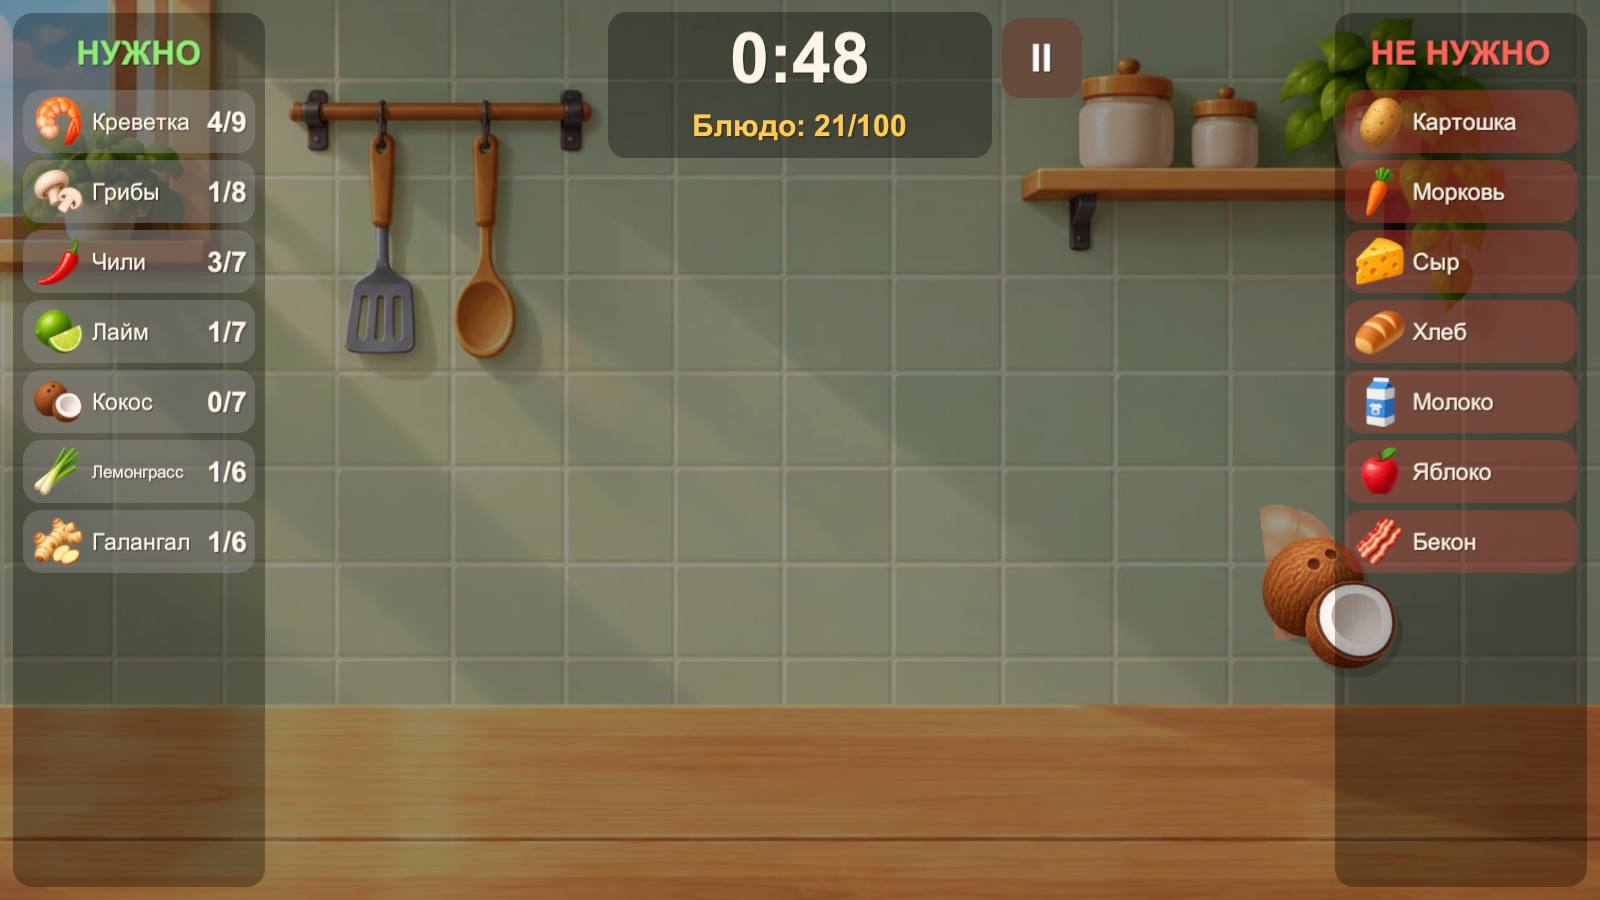
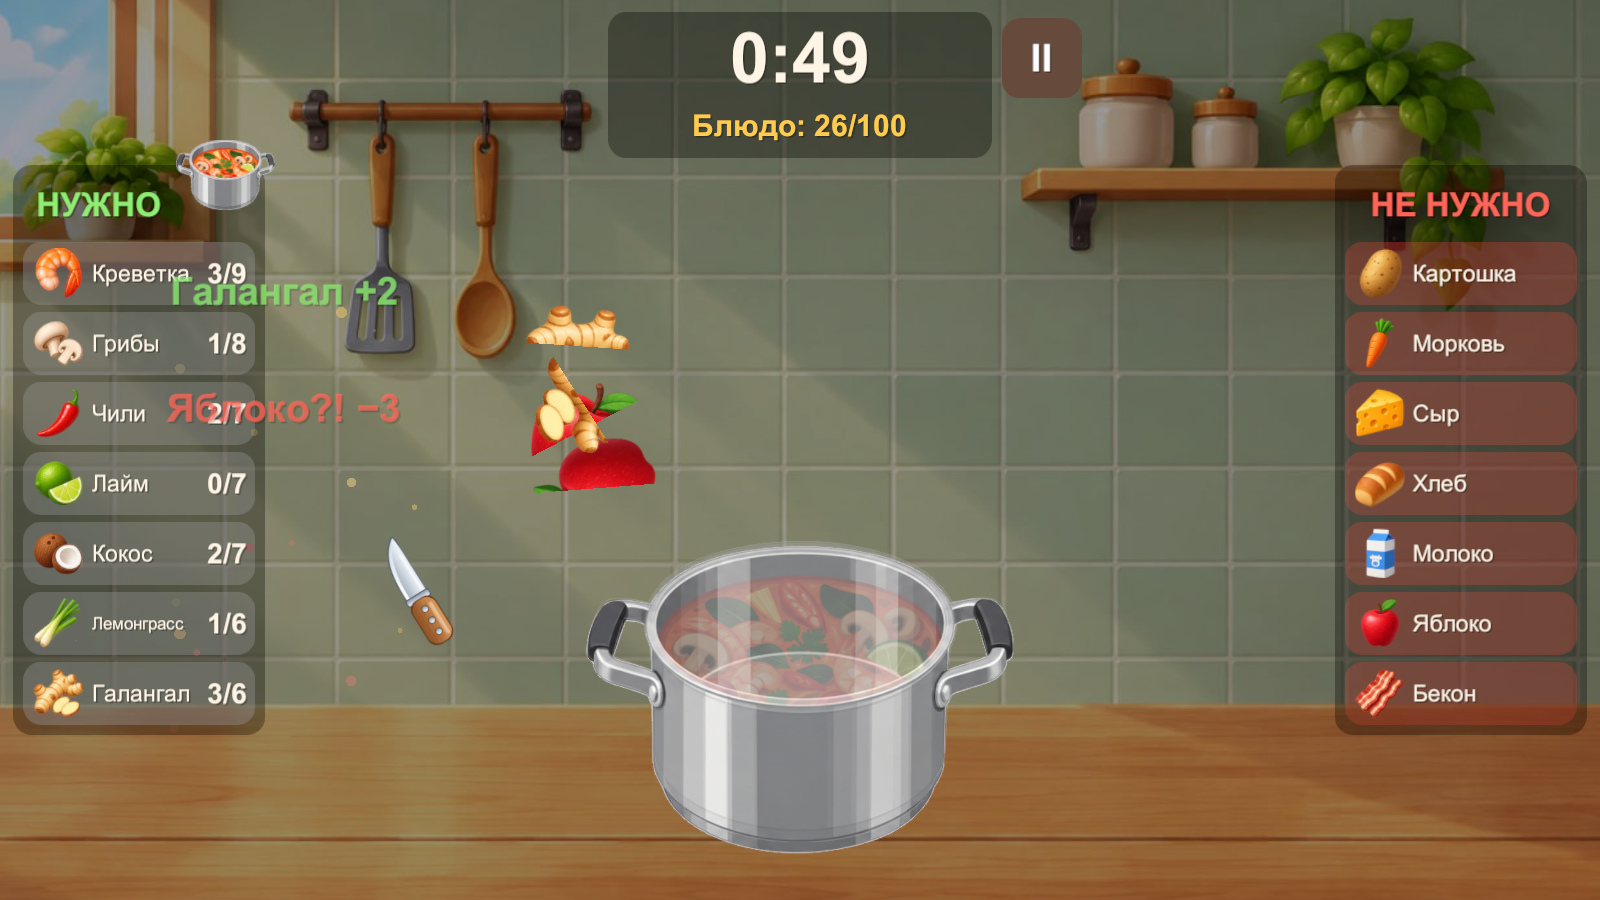
Ёмкость блюда на столе: нарезанное летит в миску / тесто / кастрюлю
Container: пустая ёмкость текущего блюда (Dishes/<id>_empty) стоит на столе,
поверх неё по мере сбора рецепта проявляется готовое блюдо (Dishes/<id>).
Половинки после разреза летят в ёмкость по дуге; ёмкость пружинит и брызгает,
от лишнего ингредиента вспыхивает красным.

diff --git a/Assets/Scripts/Container.cs b/Assets/Scripts/Container.cs
@@ -1,0 +1,113 @@
+using UnityEngine;
+
+namespace RecipeSlicer
+{
+    /// <summary>
+    /// Ёмкость текущего блюда на столе (миска, тесто, кастрюля): в неё летят все разрезанные ингредиенты.
+    /// Поверх пустой ёмкости постепенно проявляется готовое блюдо — по мере сбора рецепта.
+    /// Картинки: Resources/Dishes/&lt;id&gt;_empty и Resources/Dishes/&lt;id&gt;.
+    /// </summary>
+    public sealed class Container : MonoBehaviour
+    {
+        public const int SortingOrder = 5;
+
+        /// <summary>Ширина ёмкости в юнитах (экран — 10 юнитов по высоте).</summary>
+        const float Width = 4.8f;
+        /// <summary>Где стоит дно ёмкости — над нижним краем экрана (на столешнице).</summary>
+        const float BottomAboveScreenEdge = 0.55f;
+        /// <summary>Прозрачные поля снизу у картинок ёмкостей — доля размера.</summary>
+        const float ImageBottomPadding = 0.1f;
+
+        static readonly Color WrongTint = new Color(1f, 0.45f, 0.4f);
+
+        Fx _fx;
+        Transform _visual;
+        SpriteRenderer _empty, _full;
+        float _progress, _shownProgress;
+        float _bounceAge = 99f, _bounceAmp, _flash;
+
+        /// <summary>Куда падают куски — чуть выше центра ёмкости.</summary>
+        public Vector3 MouthPosition => transform.position + new Vector3(0f, Width * 0.12f, 0f);
+
+        public void Init(Fx fx)
+        {
+            _fx = fx;
+            _visual = new GameObject("Visual").transform;
+            _visual.SetParent(transform, false);
+            _empty = NewPart("Empty", SortingOrder);
+            _full = NewPart("Full", SortingOrder + 1);
+            gameObject.SetActive(false);
+        }
+
+        SpriteRenderer NewPart(string name, int order)
+        {
+            var go = new GameObject(name);
+            go.transform.SetParent(_visual, false);
+            var sr = go.AddComponent<SpriteRenderer>();
+            sr.sortingOrder = order;
+            return sr;
+        }
+
+        /// <summary>Поставить ёмкость нужного блюда, пустую.</summary>
+        public void SetRecipe(RecipeDef recipe)
+        {
+            SetSprite(_empty, Art.LoadSprite("Dishes/" + recipe.Id + "_empty"));
+            SetSprite(_full, Art.DishSprite(recipe));
+            _progress = _shownProgress = 0f;
+            _bounceAge = 99f;
+            _flash = 0f;
+            gameObject.SetActive(_empty.sprite != null || _full.sprite != null);
+            ApplyColors();
+        }
+
+        static void SetSprite(SpriteRenderer sr, Sprite sprite)
+        {
+            sr.sprite = sprite;
+            if (sprite != null) sr.transform.localScale = Vector3.one * (Width / sprite.bounds.size.x);
+        }
+
+        public void Hide() => gameObject.SetActive(false);
+
+        /// <summary>0..1 — насколько собран рецепт; столько готового блюда видно в ёмкости.</summary>
+        public void SetProgress(float progress) => _progress = Mathf.Clamp01(progress);
+
+        /// <summary>Поставить дном на столешницу у нижнего края экрана.</summary>
+        public void Place(float viewHalfHeight)
+        {
+            float bottom = -viewHalfHeight + BottomAboveScreenEdge;
+            transform.position = new Vector3(0f, bottom + (0.5f - ImageBottomPadding) * Width, 0f);
+        }
+
+        /// <summary>Кусок упал в ёмкость.</summary>
+        public void Absorb(SliceResult result, Color juice)
+        {
+            bool wrong = result == SliceResult.Wrong;
+            _bounceAge = 0f;
+            _bounceAmp = wrong ? 0.12f : 0.06f;
+            if (wrong) _flash = 1f;
+            _fx.Burst(MouthPosition, juice, 5);
+        }
+
+        void Update()
+        {
+            float dt = Time.deltaTime;
+            _shownProgress = Mathf.MoveTowards(_shownProgress, _progress, dt * 1.5f);
+
+            _bounceAge += dt;
+            float s = Mathf.Sin(_bounceAge * 26f) * Mathf.Exp(-_bounceAge * 7f) * _bounceAmp;
+            _visual.localScale = new Vector3(1f + s, 1f - s, 1f);
+
+            _flash = Mathf.MoveTowards(_flash, 0f, dt * 2.5f);
+            ApplyColors();
+        }
+
+        void ApplyColors()
+        {
+            var tint = Color.Lerp(Color.white, WrongTint, _flash);
+            _empty.color = tint;
+            var full = tint;
+            full.a = _shownProgress;
+            _full.color = full;
+        }
+    }
+}

diff --git a/Assets/Scripts/Half.cs b/Assets/Scripts/Half.cs
@@ -2,13 +2,22 @@ using UnityEngine;
 
 namespace RecipeSlicer
 {
-    /// <summary>Половинка разрезанного ингредиента: падает, крутится и тает.</summary>
+    /// <summary>
+    /// Половинка разрезанного ингредиента: сначала разлетается от удара, потом по дуге летит в ёмкость
+    /// блюда и исчезает в ней. Если ёмкости нет — просто падает, крутится и тает.
+    /// </summary>
     public sealed class Half : MonoBehaviour
     {
+        const float PopTime = 0.14f;
+        const float FlyTime = 0.5f;
+        const float EndScale = 0.35f;
         const float FadeStart = 0.6f;
         const float FadeTime = 0.6f;
 
         SpriteRenderer _renderer;
+        Container _container;
+        SliceResult _result;
+        Color _juice;
         Vector2 _velocity;
         float _gravity;
         float _speed;
@@ -16,7 +25,12 @@ namespace RecipeSlicer
         float _bottom;
         float _age;
 
-        public void Init(Vector2 velocity, float gravity, float speed, float spin, float bottom)
+        bool _flying;
+        Vector3 _from, _control, _to;
+        float _startScale;
+
+        public void Init(Vector2 velocity, float gravity, float speed, float spin, float bottom,
+            Container container, SliceResult result, Color juice)
         {
             _renderer = GetComponent<SpriteRenderer>();
             _velocity = velocity;
@@ -24,15 +38,32 @@ namespace RecipeSlicer
             _speed = speed;
             _spin = spin;
             _bottom = bottom;
+            _container = container != null && container.isActiveAndEnabled ? container : null;
+            _result = result;
+            _juice = juice;
         }
 
         void Update()
         {
-            float dt = Time.deltaTime * _speed;
-            _age += Time.deltaTime;
-            _velocity.y -= _gravity * dt;
-            transform.position += (Vector3)(_velocity * dt);
-            transform.Rotate(0f, 0f, _spin * dt);
+            float dt = Time.deltaTime;
+            _age += dt;
+            transform.Rotate(0f, 0f, _spin * dt * _speed);
+
+            if (_flying)
+            {
+                Fly();
+                return;
+            }
+
+            float sdt = dt * _speed;
+            _velocity.y -= _gravity * sdt;
+            transform.position += (Vector3)(_velocity * sdt);
+
+            if (_container != null)
+            {
+                if (_age >= PopTime) StartFlight();
+                return;
+            }
 
             if (_age > FadeStart)
             {
@@ -40,9 +71,40 @@ namespace RecipeSlicer
                 c.a = Mathf.Clamp01(1f - (_age - FadeStart) / FadeTime);
                 _renderer.color = c;
             }
-
             if (_age > FadeStart + FadeTime || transform.position.y < _bottom)
                 Destroy(gameObject);
+        }
+
+        void StartFlight()
+        {
+            _flying = true;
+            _from = transform.position;
+            _to = _container.MouthPosition + new Vector3(Random.Range(-0.4f, 0.4f), Random.Range(-0.1f, 0.1f), 0f);
+            // Дуга поднимается над ёмкостью: кусок падает в неё сверху, а не влетает сбоку.
+            float top = Mathf.Max(_from.y, _to.y) + 1.6f;
+            _control = new Vector3((_from.x + _to.x) * 0.5f + _velocity.x * 0.12f, top, 0f);
+            _startScale = transform.localScale.x;
+        }
+
+        void Fly()
+        {
+            float t = Mathf.Clamp01((_age - PopTime) / FlyTime);
+            float e = t * t; // разгоняется к ёмкости
+            float u = 1f - e;
+            transform.position = u * u * _from + 2f * u * e * _control + e * e * _to;
+            transform.localScale = Vector3.one * (_startScale * Mathf.Lerp(1f, EndScale, e));
+            if (t > 0.8f)
+            {
+                var c = _renderer.color;
+                c.a = 1f - (t - 0.8f) / 0.2f;
+                _renderer.color = c;
+            }
+
+            if (t >= 1f)
+            {
+                if (_container != null) _container.Absorb(_result, _juice);
+                Destroy(gameObject);
+            }
         }
 
         // Спрайт половинки создан под этот разрез — удаляем вместе с объектом.

diff --git a/Assets/Scripts/GameManager.cs b/Assets/Scripts/GameManager.cs
@@ -34,6 +34,7 @@ namespace RecipeSlicer
         bool _backgroundIsPicture;
         GameUI _ui;
         Fx _fx;
+        Container _container;
         Spawner _spawner;
         readonly List<Ingredient> _active = new List<Ingredient>();
 
@@ -65,6 +66,8 @@ namespace RecipeSlicer
             Sfx = AddChild<Sfx>("Sfx");
             _fx = AddChild<Fx>("Fx");
             _fx.Init(_cam);
+            _container = AddChild<Container>("Container");
+            _container.Init(_fx);
             AddChild<SwipeInput>("Swipe").Init(this, _cam);
             _ui = AddChild<GameUI>("UI");
             _ui.Init(this, _cam);
@@ -115,6 +118,7 @@ namespace RecipeSlicer
             _stateTimer = 0f;
             _state = State.Countdown;
             _ui.ShowRound(_round);
+            _container.SetRecipe(recipe);
             _ui.ShowBanner("Режь только то, что в списке «НУЖНО»!", GameUI.AccentColor, 2.6f);
             Sfx.PlayClick();
             Sfx.PlayMusic(MusicTrack.Round, restart: true);
@@ -183,6 +187,7 @@ namespace RecipeSlicer
             ClearIngredients();
             _state = State.Menu;
             _ui.ShowMenu(dishSelect);
+            _container.Hide();
             Sfx.PlayMusic(MusicTrack.Lobby);
         }
 
@@ -386,7 +391,7 @@ namespace RecipeSlicer
             var def = ingredient.Def;
             Vector2 position = ingredient.Position;
             var result = _round.Register(def);
-            ingredient.Slice(direction);
+            ingredient.Slice(direction, _container, result);
 
             _fx.Burst(position, def.Color, result == SliceResult.Wrong ? 10 : 16);
             Sfx.PlayChop(def.Id);
@@ -420,6 +425,7 @@ namespace RecipeSlicer
             }
 
             _ui.OnSliced(def, _round);
+            _container.SetProgress(_round.TotalCollected / (float)_recipe.TotalNeeded);
 
             if (result == SliceResult.Needed && _round.IsComplete)
             {
@@ -444,6 +450,7 @@ namespace RecipeSlicer
             float halfW = halfH * _cam.aspect;
             float side = 2f * halfW * GameUI.SidePanelFraction;
             PlayArea = Rect.MinMaxRect(-halfW + side, -halfH, halfW - side, halfH);
+            _container.Place(halfH);
 
             // С запасом 10%, чтобы при тряске камеры не было видно краёв.
             var size = _background.sprite.bounds.size;

diff --git a/Assets/Scripts/Ingredient.cs b/Assets/Scripts/Ingredient.cs
@@ -116,8 +116,11 @@ namespace RecipeSlicer
                 _game.OnIngredientLost(this);
         }
 
-        /// <summary>Разрезать вдоль направления свайпа. Объект уничтожается, вместо него летят половинки.</summary>
-        public void Slice(Vector2 direction)
+        /// <summary>
+        /// Разрезать вдоль направления свайпа. Объект уничтожается, вместо него половинки,
+        /// которые летят в ёмкость блюда (если она есть).
+        /// </summary>
+        public void Slice(Vector2 direction, Container container, SliceResult result)
         {
             IsSliced = true;
 
@@ -125,13 +128,13 @@ namespace RecipeSlicer
             Vector2 localDirection = Quaternion.Inverse(_body.rotation) * direction;
             var normal = new Vector2(-direction.y, direction.x);
             var source = _bodyRenderer.sprite;
-            SpawnHalf(Art.CutHalf(source, localDirection, true), normal, direction);
-            SpawnHalf(Art.CutHalf(source, localDirection, false), -normal, direction);
+            SpawnHalf(Art.CutHalf(source, localDirection, true), normal, direction, container, result);
+            SpawnHalf(Art.CutHalf(source, localDirection, false), -normal, direction, container, result);
 
             Destroy(gameObject);
         }
 
-        void SpawnHalf(Sprite sprite, Vector2 side, Vector2 direction)
+        void SpawnHalf(Sprite sprite, Vector2 side, Vector2 direction, Container container, SliceResult result)
         {
             var go = new GameObject("Half");
             go.transform.SetPositionAndRotation(_body.position, _body.rotation);
@@ -143,7 +146,7 @@ namespace RecipeSlicer
 
             var velocity = _velocity * 0.4f + side * Random.Range(2f, 3.2f) + direction * 1.5f;
             go.AddComponent<Half>().Init(velocity, _gravity, _speed, Random.Range(-360f, 360f),
-                -_game.ViewHalfHeight - 2f);
+                -_game.ViewHalfHeight - 2f, container, result, Def.Color);
         }
     }
 }
